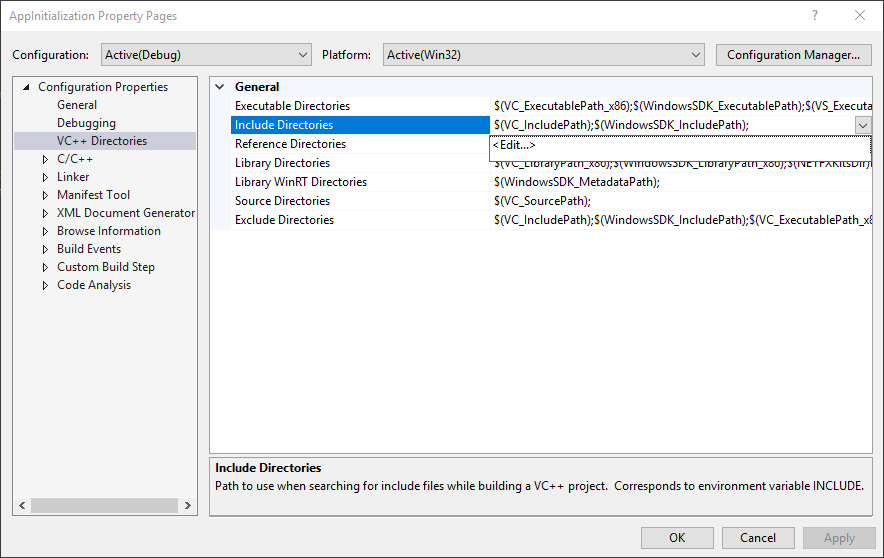
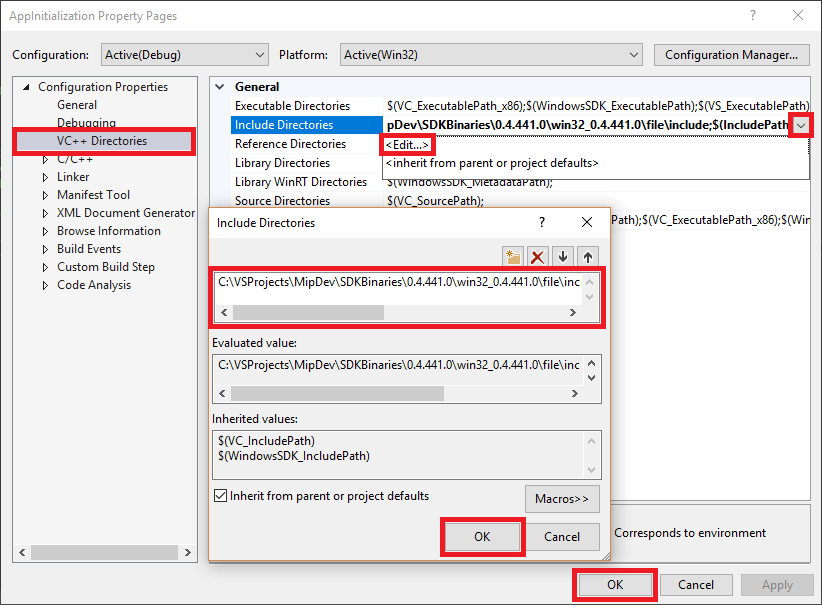
init quickstart

Changed region(s): [[0.0, 0.0, 1.0, 1.0]]

diff --git a/mip/develop/quick-app-initialization-cpp.md b/mip/develop/quick-app-initialization-cpp.md
@@ -45,12 +45,13 @@ Here we create the initial Visual Studio solution, upon which the following Quic
 2. Configure the include and library directory paths in your project settings. These directories were established as part of the [MIP SDK setup and configuration](setup-configure-mip.md#configure-your-client-workstation) prerequisite:
    - In the **Solution Explorer**, right click on the project node, and select **Properties**.
    - On the **Property Pages** dialog, under **Configuration Properties**, select the **VC++ Directories** node.
-   - Select the **Include Directories** row, click the drop-down on the right side then **<Edit...>**, enter the path(s) to the SDK include subdirectories in the top field, and click **OK**. Specify the `\include` subdirectories (but no deeper), within the directory where you installed the SDK.
-   - Repeat the previous step for the **Library Directories** row, entering the path(s) to the SDK library subdirectories. Be sure to select the paths that match the current build configuration for your solution (debug/release target, and platform). Specify the `\bins\<target>\<platform>` subdirectories, within the directory where you installed the SDK.
+   - Select the **Include Directories** row then click the drop-down on the right side, then **<Edit...>**, and enter the path(s) to the SDK include subdirectories in the top field. Click **OK**. Be sure to specify the `\include` subdirectories (but no deeper), within the directory where you installed the SDK.
+   - Repeat the previous step for the **Library Directories** row, entering the path(s) to the SDK library subdirectories. Be sure to select the paths that match the current build configuration for your solution (debug/release target, and platform). Be sure to specify the `\bins\<target>\<platform>` subdirectories, within the directory where you installed the SDK.
+   - Click **OK** on the **Property Pages** dialog when finished.
 
    [![Visual Studio solution creation](media/quick-app-initialization-cpp/set-include-lib-path-properties.png)](media/quick-app-initialization-cpp/set-include-lib-path-properties.png#lightbox)
 
-3. Add the SDK binaries path to the PATH environment variable:
+3. Add the SDK binaries path to the PATH environment variable, to allow the SDK .DLL files to be found at runtime:
    - Click the Windows icon in the lower left.
    - Type "Path" and press the "Enter" key.
    - On the **System Properties** dialog, click **Environment Variables**.
